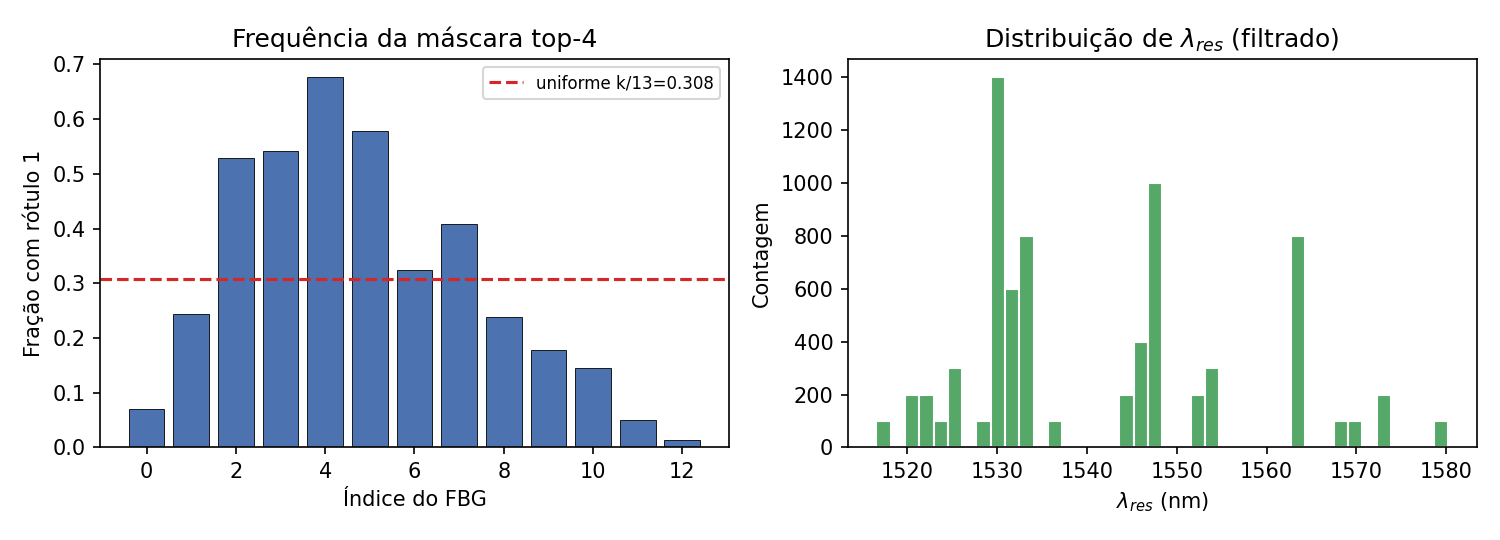
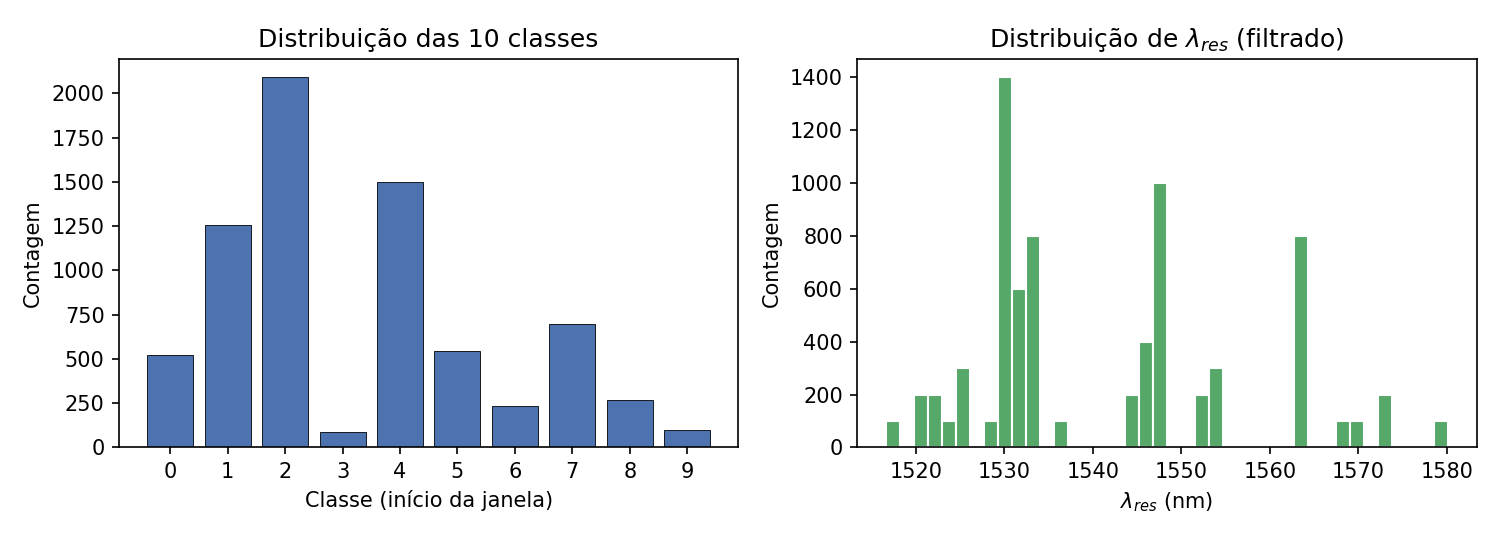
Add multiclass window labels (10 contiguous FBG masks).
Derive y_class from contiguous top-4 masks, persist in prepared npz, and document class balance.

diff --git a/paper/classification/scripts/run_passo1.py b/paper/classification/scripts/run_passo1.py
@@ -1,4 +1,4 @@
-"""Executa Passo 1: pré-processamento, checagens e salvamento (dados reais)."""
+"""Executa Passo 1: pré-processamento, rótulos multiclasse e salvamento."""
 
 from __future__ import annotations
 
@@ -19,11 +19,15 @@ sys.path.insert(0, str(ROOT))
 from src.data_utils import (
     FIGURES_DIR,
     K_DEFAULT,
+    N_CLASSES,
+    N_FBGS,
     RANDOM_STATE,
     RESULTS_DIR,
     WL_RANGE,
+    class_to_mask,
     load_prepared_dataset,
     load_measured_dataset,
+    mask_to_window_class,
     prepare_measured_classification,
     save_prepared_dataset,
 )
@@ -61,16 +65,19 @@ def main() -> None:
     data = prepare_measured_classification(k=k, wl_range=WL_RANGE)
     x = data["X"]
     y_mask = data["y_mask"]
+    y_class = np.asarray(data["y_class"], dtype=int).ravel()
     wl = data["wl_bragg"]
     target = data["target"]
     keep = data["keep"]
+    n_classes = int(data["n_classes"])
 
     print("=== Após pipeline ===")
     print(
         f"n_raw={int(data['n_raw'])}, n_kept={int(data['n_kept'])}, "
         f"removidas={int(data['n_raw'] - data['n_kept'])}"
     )
-    print(f"X={x.shape}, y_mask={y_mask.shape}")
+    print(f"X={x.shape}, y_mask={y_mask.shape}, y_class={y_class.shape}")
+    print(f"n_classes={n_classes} (esperado {N_CLASSES})")
     print(f"lambda filtrado: min={target.min():.6f}, max={target.max():.6f}")
 
     checks: dict[str, bool | int] = {}
@@ -97,29 +104,14 @@ def main() -> None:
     )
     checks["mascara_coincide_topk"] = bool(same_sets)
 
-    topk_sort = np.argsort(err, axis=1)[:, :k]
-    mask_sort = np.zeros_like(y_mask)
-    mask_sort[np.arange(len(target)).reshape(-1, 1), topk_sort] = 1
-    same_sort = all(
-        set(np.flatnonzero(y_mask[i])) == set(np.flatnonzero(mask_sort[i]))
-        for i in range(len(target))
+    y_from_mask = mask_to_window_class(y_mask, k=k)
+    checks["y_class_bate_com_mascara"] = bool(np.array_equal(y_class, y_from_mask))
+    checks["bijecao_classe_mascara"] = bool(
+        np.array_equal(class_to_mask(y_class, n_fbgs=N_FBGS, k=k), y_mask)
     )
-    checks["mascara_coincide_argsort"] = bool(same_sort)
-
-    kth_err = np.partition(err, k - 1, axis=1)[:, k - 1]
-    n_at_kth = (err <= kth_err.reshape(-1, 1) + 1e-15).sum(axis=1)
-    n_ties = int((n_at_kth > k).sum())
-    checks["amostras_com_empate_no_limiar_k"] = n_ties
-
-    ok_sep = True
-    n_sep_fail = 0
-    for i in range(len(target)):
-        sel = y_mask[i].astype(bool)
-        if err[i, sel].max() > err[i, ~sel].min() + 1e-12 and n_at_kth[i] <= k:
-            ok_sep = False
-            n_sep_fail += 1
-    checks["max_sel_leq_min_unsel_sem_empate"] = bool(ok_sep)
-    checks["n_sep_fail"] = n_sep_fail
+    checks["n_classes_esperado"] = bool(n_classes == N_CLASSES)
+    checks["classes_em_0_a_9"] = bool(y_class.min() == 0 and y_class.max() == N_CLASSES - 1)
+    checks["todas_as_10_classes_presentes"] = bool(len(np.unique(y_class)) == N_CLASSES)
 
     print("Checagens:")
     for name, ok in checks.items():
@@ -131,39 +123,35 @@ def main() -> None:
     bool_checks = {key: val for key, val in checks.items() if isinstance(val, bool)}
     assert all(bool_checks.values()), "Falha de coerência"
 
-    freq = y_mask.mean(axis=0)
-    count = y_mask.sum(axis=0)
-    bal = pd.DataFrame(
+    counts = np.bincount(y_class, minlength=N_CLASSES)
+    class_bal = pd.DataFrame(
         {
-            "fbg_index": np.arange(13),
-            "n_positivo": count.astype(int),
+            "class": np.arange(N_CLASSES),
+            "window": [f"{{{','.join(map(str, range(s, s + k)))}}}" for s in range(N_CLASSES)],
+            "n": counts.astype(int),
+            "frac": np.round(counts / len(y_class), 4),
+        }
+    )
+    print(class_bal.to_string(index=False))
+    assert int(counts.sum()) == len(y_class)
+
+    # balanceamento por FBG (máscara derivada) — diagnóstico
+    freq = y_mask.mean(axis=0)
+    bal_fbg = pd.DataFrame(
+        {
+            "fbg_index": np.arange(N_FBGS),
+            "n_positivo": y_mask.sum(axis=0).astype(int),
             "fracao_positivo": np.round(freq, 4),
             "wl_bragg_media_nm": np.round(wl.mean(axis=0), 3),
         }
     )
-    print(f"Esperado uniforme k/13={k / 13:.4f}")
-    print(f"std frações={freq.std(ddof=0):.4f}")
-    print(bal.to_string(index=False))
-    print("wl_bragg std por FBG:", np.round(wl.std(axis=0), 4))
-    print("wl_bragg min/max global:", float(wl.min()), float(wl.max()))
-
-    mean_res_when_pos = []
-    for j in range(13):
-        sel = y_mask[:, j] == 1
-        mean_res_when_pos.append(target[sel].mean() if sel.any() else np.nan)
-    mean_res_when_pos = np.array(mean_res_when_pos)
-    wl_mean = wl.mean(axis=0)
-    corr = float(np.corrcoef(wl_mean, mean_res_when_pos)[0, 1])
-    print("corr(wl_mean, mean_res_when_pos)=", corr)
-    print("diff mean_res - wl_mean:", np.round(mean_res_when_pos - wl_mean, 3))
 
     fig, axes = plt.subplots(1, 2, figsize=(10, 3.6))
-    axes[0].bar(np.arange(13), freq, color="#4c72b0", edgecolor="black", linewidth=0.4)
-    axes[0].axhline(k / 13, color="C3", ls="--", label=f"uniforme k/13={k / 13:.3f}")
-    axes[0].set_xlabel("Índice do FBG")
-    axes[0].set_ylabel("Fração com rótulo 1")
-    axes[0].set_title(f"Frequência da máscara top-{k}")
-    axes[0].legend(fontsize=8)
+    axes[0].bar(np.arange(N_CLASSES), counts, color="#4c72b0", edgecolor="black", linewidth=0.4)
+    axes[0].set_xlabel("Classe (início da janela)")
+    axes[0].set_ylabel("Contagem")
+    axes[0].set_title(f"Distribuição das {N_CLASSES} classes")
+    axes[0].set_xticks(np.arange(N_CLASSES))
     axes[1].hist(target, bins=40, color="#55a868", edgecolor="white")
     axes[1].set_xlabel(r"$\lambda_{res}$ (nm)")
     axes[1].set_ylabel("Contagem")
@@ -172,6 +160,14 @@ def main() -> None:
     fig.savefig(FIGURES_DIR / "passo1_balance_mask.png", dpi=150)
     plt.close(fig)
 
+    mean_res_when_pos = []
+    for j in range(N_FBGS):
+        sel = y_mask[:, j] == 1
+        mean_res_when_pos.append(target[sel].mean() if sel.any() else np.nan)
+    mean_res_when_pos = np.array(mean_res_when_pos)
+    wl_mean = wl.mean(axis=0)
+    corr = float(np.corrcoef(wl_mean, mean_res_when_pos)[0, 1])
+
     fig, ax = plt.subplots(figsize=(6, 4))
     ax.plot(wl_mean, mean_res_when_pos, "o-", color="#4c72b0")
     lims = [
@@ -179,11 +175,11 @@ def main() -> None:
         max(wl_mean.max(), np.nanmax(mean_res_when_pos)) + 2,
     ]
     ax.plot(lims, lims, "k--", lw=1, label="y=x")
-    for j in range(13):
+    for j in range(N_FBGS):
         ax.text(wl_mean[j], mean_res_when_pos[j], str(j), fontsize=8, ha="left", va="bottom")
     ax.set_xlabel("Posição média do FBG (nm)")
-    ax.set_ylabel(r"Média de $\lambda_{res}$ quando FBG=1")
-    ax.set_title("Coerência espacial da máscara")
+    ax.set_ylabel(r"Média de $\lambda_{res}$ quando FBG na janela")
+    ax.set_title("Coerência espacial da janela (máscara)")
     ax.legend()
     fig.tight_layout()
     fig.savefig(FIGURES_DIR / "passo1_mask_vs_lambda.png", dpi=150)
@@ -194,30 +190,34 @@ def main() -> None:
 
     meta = {
         "source": "paper/fbg-demodulated-lpfg/data/measured.dataset",
+        "formulation": "multiclass_contiguous_window",
         "n_raw": int(data["n_raw"]),
         "n_kept": int(data["n_kept"]),
         "n_removed": int(data["n_raw"] - data["n_kept"]),
-        "n_fbgs": 13,
+        "n_fbgs": N_FBGS,
         "k": int(k),
+        "n_classes": N_CLASSES,
         "wl_range_nm": list(WL_RANGE),
         "random_state": int(RANDOM_STATE),
         "X": "input_strength normalizado (min-subtract + soma=1)",
-        "y_mask": f"multi-rótulo top-{k} por |wl_bragg - target|",
-        "mask_positive_fraction_per_fbg": [float(f) for f in freq],
-        "n_samples_with_tie_at_kth": n_ties,
+        "y_class": f"classe s em 0..{N_CLASSES - 1}; janela FBGs {{s..s+{k - 1}}}",
+        "y_mask": f"máscara equivalente top-{k} / janela contígua",
+        "class_counts": [int(c) for c in counts],
         "coherence_checks_passed": True,
         "corr_wl_mean_vs_mean_res_when_pos": corr,
     }
     meta_path = RESULTS_DIR / "prepared_measured_k4_meta.json"
     with open(meta_path, "w", encoding="utf-8") as f:
         json.dump(meta, f, indent=2, ensure_ascii=False)
-    bal.to_csv(RESULTS_DIR / "passo1_mask_balance.csv", index=False)
+    class_bal.to_csv(RESULTS_DIR / "passo1_class_balance.csv", index=False)
+    bal_fbg.to_csv(RESULTS_DIR / "passo1_mask_balance.csv", index=False)
     print(f"Salvo: {meta_path}")
-    print(f"Salvo: {RESULTS_DIR / 'passo1_mask_balance.csv'}")
+    print(f"Salvo: {RESULTS_DIR / 'passo1_class_balance.csv'}")
 
     reloaded = load_prepared_dataset(out_npz)
     assert reloaded["X"].shape == x.shape
     assert np.array_equal(reloaded["y_mask"], y_mask)
+    assert np.array_equal(reloaded["y_class"], y_class)
     print("Reload OK")
     print("DONE")
 

diff --git a/paper/classification/src/data_utils.py b/paper/classification/src/data_utils.py
@@ -9,6 +9,8 @@ import numpy as np
 
 RANDOM_STATE = 42
 K_DEFAULT = 4
+N_FBGS = 13
+N_CLASSES = N_FBGS - K_DEFAULT + 1  # 10 janelas contíguas
 WL_RANGE = (1515.0, 1585.0)
 
 # paper/classification/src -> classification/ -> paper/
@@ -59,7 +61,7 @@ def filter_wl_range(
 
 
 def make_topk_mask(wl_bragg: np.ndarray, target: np.ndarray, k: int = K_DEFAULT) -> np.ndarray:
-    """Máscara multi-rótulo: 1 nos k FBGs mais próximos de lambda_res."""
+    """Máscara: 1 nos k FBGs mais próximos de lambda_res (intermediário do rótulo)."""
     wl_bragg = np.asarray(wl_bragg, dtype=float)
     target = np.asarray(target, dtype=float).ravel()
     if wl_bragg.ndim != 2:
@@ -76,15 +78,53 @@ def make_topk_mask(wl_bragg: np.ndarray, target: np.ndarray, k: int = K_DEFAULT)
     return mask
 
 
+def class_to_mask(y_class: np.ndarray | int, n_fbgs: int = N_FBGS, k: int = K_DEFAULT) -> np.ndarray:
+    """Converte classe(s) de janela s -> máscara com uns em {s,...,s+k-1}."""
+    y_class = np.asarray(y_class, dtype=int).ravel()
+    n = len(y_class)
+    mask = np.zeros((n, n_fbgs), dtype=np.int8)
+    for i, s in enumerate(y_class):
+        if s < 0 or s > n_fbgs - k:
+            raise ValueError(f"classe fora de [0, {n_fbgs - k}]: {s}")
+        mask[i, s : s + k] = 1
+    return mask
+
+
+def mask_to_window_class(y_mask: np.ndarray, k: int = K_DEFAULT) -> np.ndarray:
+    """
+    Converte máscara top-k em classe multiclasse (índice de início da janela).
+
+    Exige janela contígua de exatamente k uns. Classes: C0={0..k-1}, ..., C9={9..12} para k=4.
+    """
+    y_mask = np.asarray(y_mask, dtype=int)
+    if y_mask.ndim != 2:
+        raise ValueError("y_mask deve ter shape (n, n_fbgs)")
+    n, n_fbgs = y_mask.shape
+    max_start = n_fbgs - k
+    classes = np.empty(n, dtype=np.int64)
+    for i in range(n):
+        idx = np.flatnonzero(y_mask[i])
+        if len(idx) != k:
+            raise ValueError(f"amostra {i}: esperados {k} uns, obtidos {len(idx)}")
+        if idx[-1] - idx[0] != k - 1 or not np.all(np.diff(idx) == 1):
+            raise ValueError(f"amostra {i}: máscara não contígua {idx.tolist()}")
+        s = int(idx[0])
+        if s < 0 or s > max_start:
+            raise ValueError(f"amostra {i}: início {s} fora de [0, {max_start}]")
+        classes[i] = s
+    return classes
+
+
 def prepare_measured_classification(
     k: int = K_DEFAULT,
     wl_range: tuple[float, float] = WL_RANGE,
     path: Path | None = None,
 ) -> dict:
     """
-    Pipeline Passo 1: carrega measured.dataset, normaliza, filtra e gera máscara.
+    Pipeline Passo 1: carrega measured.dataset, normaliza, filtra e gera rótulos.
 
-    Retorna dicionário com arrays prontos e metadados (sem inventar campos).
+    Rótulo oficial: y_class (multiclasse, janela contígua de k FBGs).
+    y_mask permanece como representação binária equivalente.
     """
     raw = load_measured_dataset(path)
     X_raw = np.asarray(raw["input_strength"], dtype=float)
@@ -94,9 +134,15 @@ def prepare_measured_classification(
     X_norm = normalize_input_strength(X_raw)
     X, wl_bragg, target, keep = filter_wl_range(X_norm, wl_bragg_raw, target_raw, wl_range)
     y_mask = make_topk_mask(wl_bragg, target, k=k)
+    y_class = mask_to_window_class(y_mask, k=k)
+    # bijeção máscara <-> classe
+    assert np.array_equal(class_to_mask(y_class, n_fbgs=X.shape[1], k=k), y_mask)
+    assert int(y_class.min()) >= 0 and int(y_class.max()) <= X.shape[1] - k
+    assert len(np.unique(y_class)) == (X.shape[1] - k + 1)
 
     return {
         "X": X,
+        "y_class": y_class,
         "y_mask": y_mask,
         "wl_bragg": wl_bragg,
         "target": target,
@@ -105,6 +151,7 @@ def prepare_measured_classification(
         "n_raw": np.int64(X_raw.shape[0]),
         "n_kept": np.int64(X.shape[0]),
         "k": np.int64(k),
+        "n_classes": np.int64(X.shape[1] - k + 1),
         "wl_range": np.array(wl_range, dtype=float),
         "random_state": np.int64(RANDOM_STATE),
     }